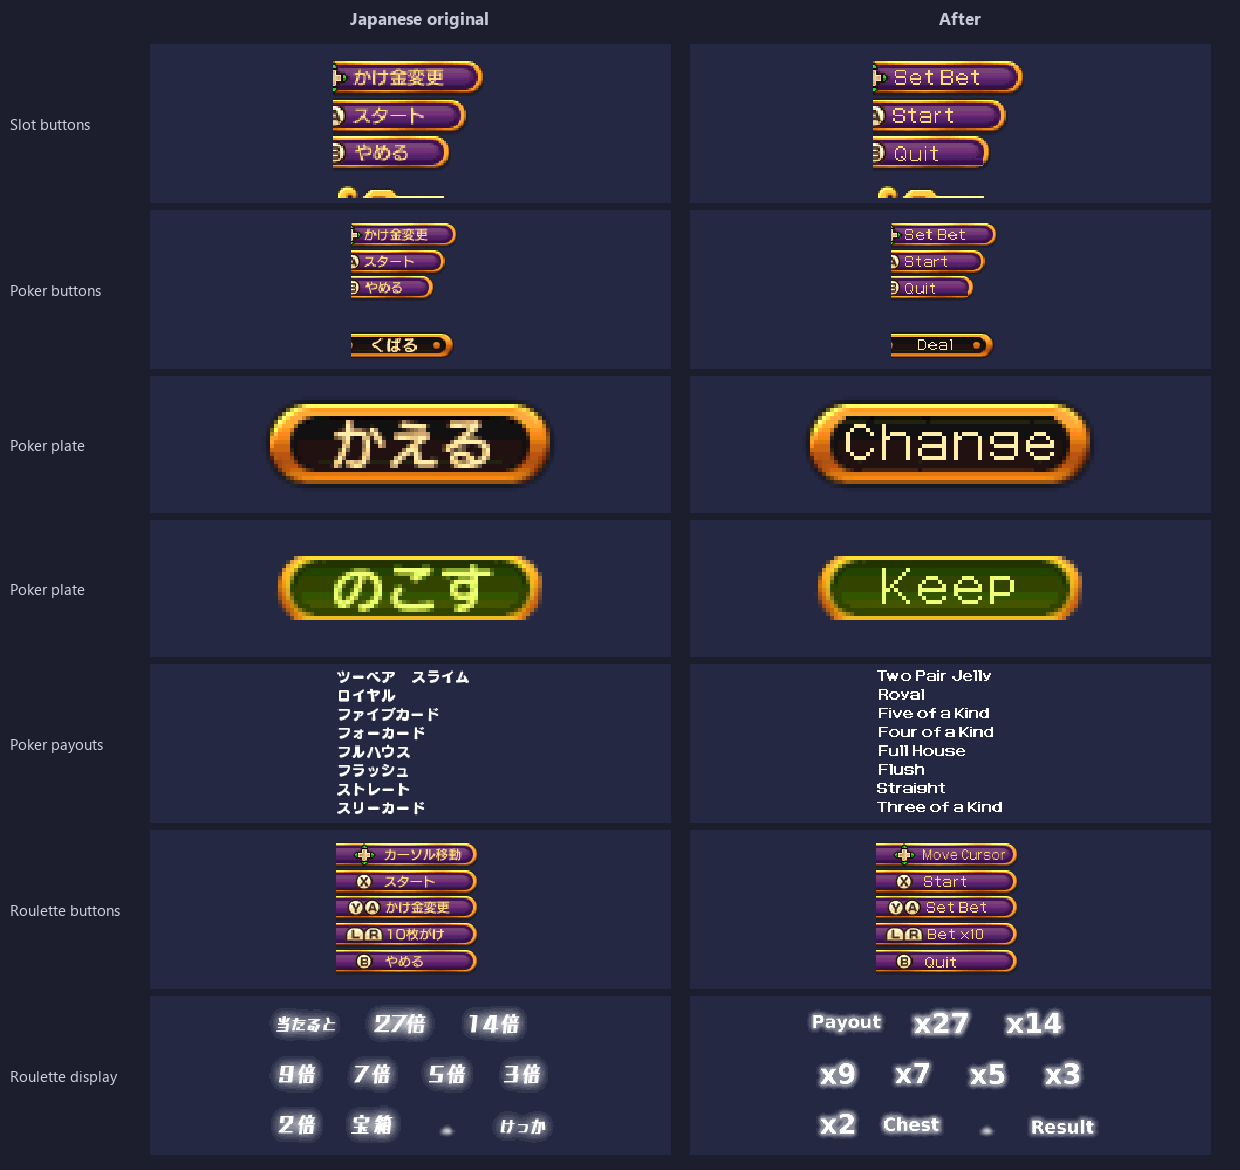
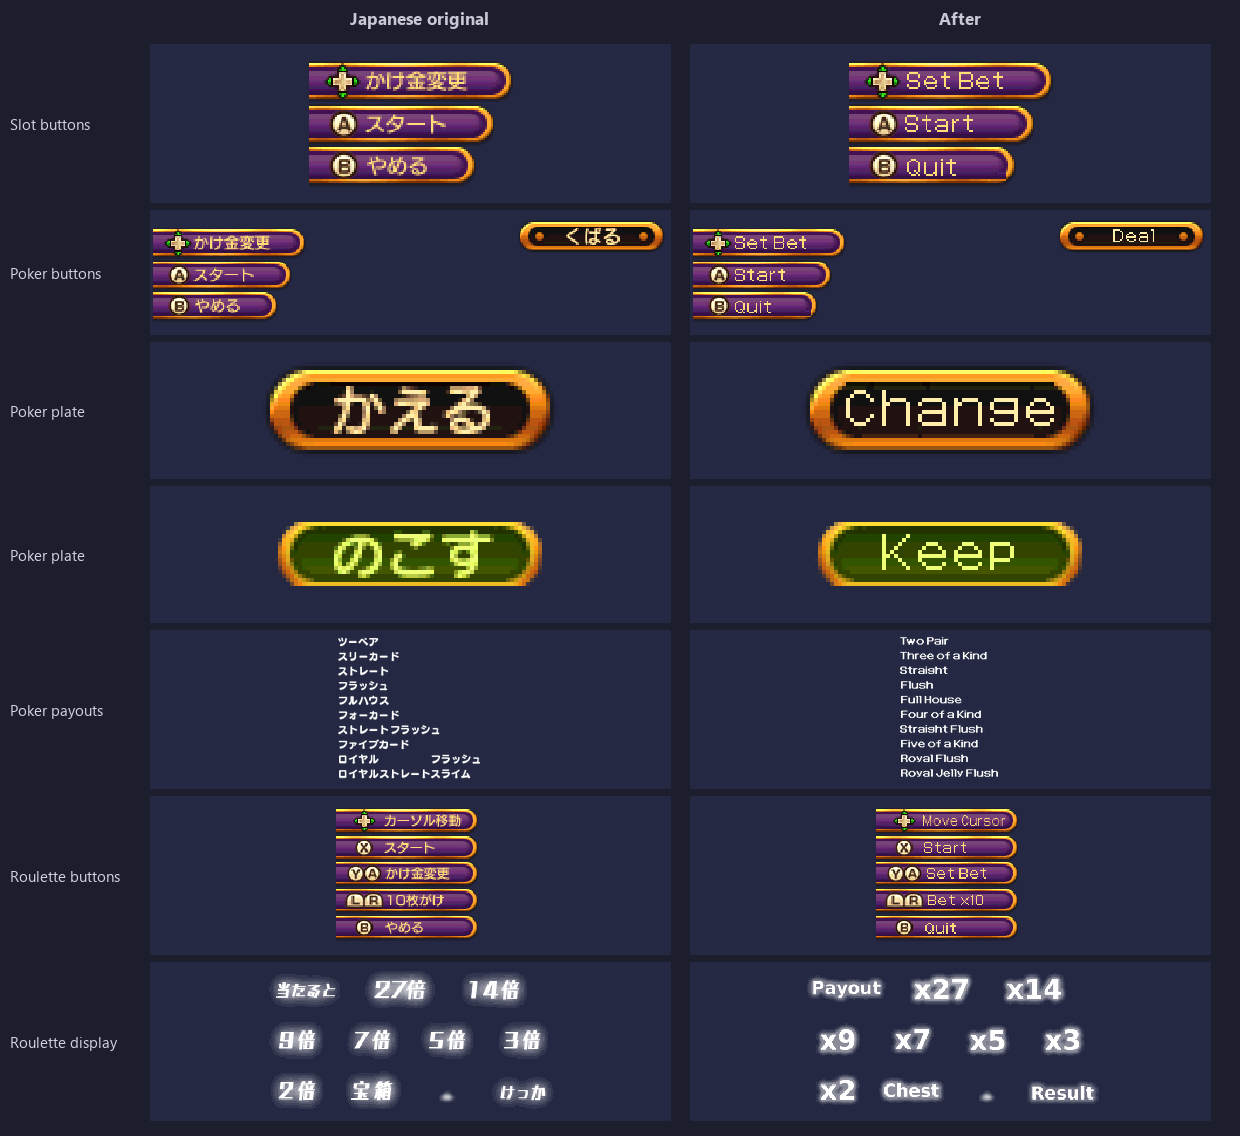
Changelog v0.0.5: assembled texture previews, drop old-patch items

diff --git a/docs/changelog/v0.0.5/CHANGELOG.md b/docs/changelog/v0.0.5/CHANGELOG.md
@@ -29,13 +29,13 @@ Everything that is drawn as an image in the casino, the horse races and a few me
 - **Roulette**: "You Win!", "Too Bad...", "No More Bets!", the Move Cursor / Start / Set Bet / Bet x10 / Quit buttons, the payout display above the wheel (Payout, x27 ... x2, Chest, Result).
 - **Poker**: all hand names (Two Pair up to Royal Straight Flush, Five of a Kind, Royal Jelly Flush), "Stake Doubled!", "Tough Luck!", "Snap!", the payout table, the Set Bet / Start / Quit / Deal buttons and the Change / Keep plates.
 - **Other casino lettering**: "COINS!" and "Item Earned!".
-- **Menus**: "Allocate All" and "Hit for a Bonus!" on the skill panel, the Skip icons, "Back" in the dungeon, "Start!!" of the Draconian Quest, the "Downtown Heliodor" location banner, the credits caption ("Game Design & Scenario"), "Close map" / "Swap map" / "Show/Hide Objective" on the field maps (every map has its own copy), and the Latin name keyboards with their accented letters.
+- **Menus**: "Allocate All" and "Hit for a Bonus!" on the skill panel, the Skip icons, "Back" in the dungeon, "Start!!" of the Draconian Quest, the "Downtown Heliodor" location banner, and the credits caption ("Game Design & Scenario").
 
 ![Race lettering before and after](https://raw.githubusercontent.com/radiant-rodent/dq-xi-3ds-translation-tool/v0.0.5/docs/changelog/v0.0.5/race_lettering.png)
 
 ![Casino lettering before and after](https://raw.githubusercontent.com/radiant-rodent/dq-xi-3ds-translation-tool/v0.0.5/docs/changelog/v0.0.5/casino_lettering.png)
 
-Menus and labels (as stored in the game's image files):
+Menus and labels:
 
 ![Menus and labels](https://raw.githubusercontent.com/radiant-rodent/dq-xi-3ds-translation-tool/v0.0.5/docs/changelog/v0.0.5/menus_and_labels.png)
 
@@ -43,7 +43,7 @@ Casino buttons and tables:
 
 ![Casino buttons and tables](https://raw.githubusercontent.com/radiant-rodent/dq-xi-3ds-translation-tool/v0.0.5/docs/changelog/v0.0.5/casino_menus.png)
 
-Race labels and the coin letters (each letter is its own image in the game, so they are shown unjoined):
+Race labels and the coin letters (the gauge is shown with its end pieces put together like the game does):
 
 ![Race labels and coin letters](https://raw.githubusercontent.com/radiant-rodent/dq-xi-3ds-translation-tool/v0.0.5/docs/changelog/v0.0.5/race_and_coins.png)
 
